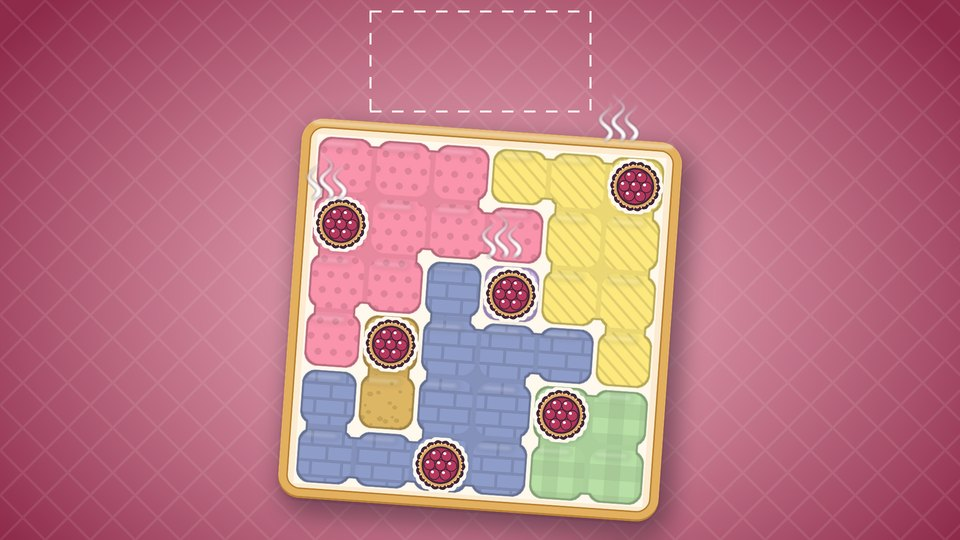
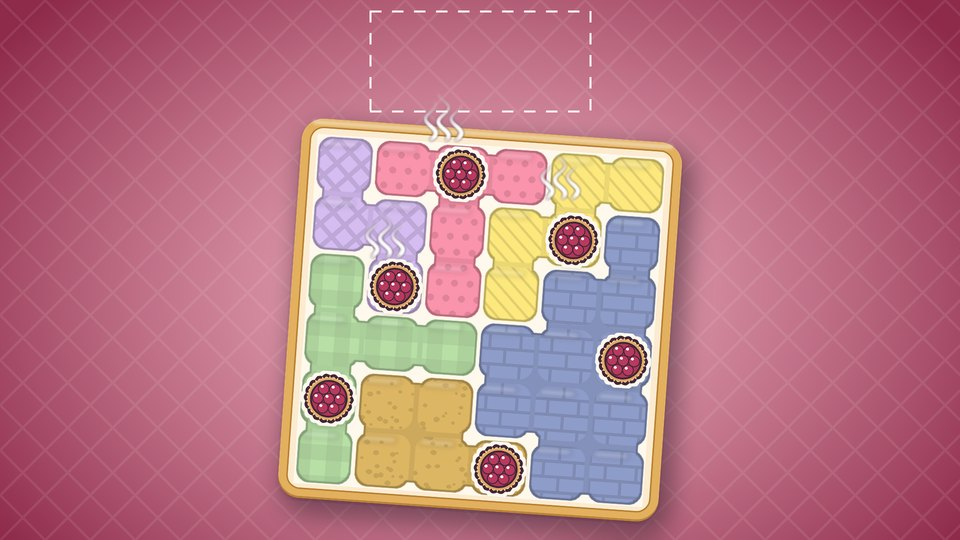
covers: boards from real validated levels (6-g3-0038 A2/A3 solved, 5-g2-0029 B2/B3), B3 recipe-book challenger + grid_test_v3b, re-run grid_test_v3; COVERS_PLAN test rules (like-for-like blocks, ~300-click minimum, >=10% lift to switch, Shahar OK via Portal Ops)

Changed region(s): [[0.3125, 0.2074, 0.7188, 0.9481], [0.625, 0.2074, 0.6875, 0.2667]]

diff --git a/art/tools/cover_concepts.py b/art/tools/cover_concepts.py
@@ -67,17 +67,30 @@ def deep_bg(W=1920,H=1080,centre=(960,560),c0=(246,201,211)):
     lat=Image.new("RGBA",(W,H),(0,0,0,0)); d=ImageDraw.Draw(lat)
     for k in range(-H,W,90): d.line([(k,0),(k+H,H)],fill=(255,248,236,22),width=6); d.line([(k+H,0),(k,H)],fill=(255,248,236,22),width=6)
     im.alpha_composite(lat); return im
-def board_big(n,seed,size,cake_scale=1.15):
-    reg,sol=gen_board(n,seed); b=render_board_b2(n,reg,{},size); cell=size/n
-    for (r,c) in sol[:n]:
+import json as _json
+def level(pid,perm):
+    """real level from game/levels (validated here: one cake per row/col/region, no 8-neighbour touching)"""
+    n=int(pid[0]); band=pid.split("-")[1][1]
+    d=_json.load(open(f"/workspace/tea-and-tarts/game/levels/pack_{n}_g{band}.json")); b=[x for x in d["boards"] if x["id"]==pid][0]
+    reg=np.array([[perm[ch] for ch in row] for row in b["regions"]]); sol=[(r,c) for r,c in enumerate(b["solution"])]
+    assert len({c for _,c in sol})==n and len({int(reg[r,c]) for r,c in sol})==n
+    assert all(not(abs(a[0]-q[0])<=1 and abs(a[1]-q[1])<=1) for i,a in enumerate(sol) for q in sol[i+1:])
+    return n,reg,sol
+LV6=level("6-g3-0038",{"a":0,"b":1,"c":3,"d":5,"e":2,"f":4})
+LV5=level("5-g2-0029",{"a":1,"b":0,"c":2,"d":4,"e":3})
+def board_big(lv,size,cake_scale=1.15,hide=(),molds=(),frame="tray_frame_solved"):
+    n,reg,sol=lv; b=render_board_b2(n,reg,{},size); cell=size/n
+    for (r,c) in molds:
+        ms=int(cell*0.7); m=L("board/mold@2x.png",ms); b.alpha_composite(m,(int(c*cell+cell/2-ms/2),int(r*cell+cell/2-ms/2)))
+    for (r,c) in [p for i,p in enumerate(sol) if i not in hide]:
         cs=int(cell*cake_scale); ck=L("board/cake_berry@2x.png",cs); b.alpha_composite(ck,(int(c*cell+cell/2-cs/2),int(r*cell+cell/2-cs/2+cell*0.02)))
-    fr=L("board/tray_frame_solved@2x.png"); pad=int(size*0.05); W=size+2*pad; out=Image.new("RGBA",(W,W),(0,0,0,0)); m=64
+    fr=L(f"board/{frame}@2x.png"); pad=int(size*0.05); W=size+2*pad; out=Image.new("RGBA",(W,W),(0,0,0,0)); m=64
     xs=[0,m,192-m,192]; xd=[0,m,W-m,W]
     for i in range(3):
         for j in range(3): out.alpha_composite(fr.crop((xs[i],xs[j],xs[i+1],xs[j+1])).resize((xd[i+1]-xd[i],xd[j+1]-xd[j])),(xd[i],xd[j]))
     out.alpha_composite(b,(pad,pad)); return out,sol,cell,pad
 def concept_A2():
-    im=deep_bg(); b,sol,cell,pad=board_big(6,7,600); bb=b.rotate(-4,resample=Image.BICUBIC,expand=True)   # ~680 px tall = 63% of 1080
+    im=deep_bg(); b,sol,cell,pad=board_big(LV6,600); bb=b.rotate(-4,resample=Image.BICUBIC,expand=True)   # ~680 px tall = 63% of 1080
     x0=960-bb.width//2; y0=575-bb.height//2+20; shadow(im,bb,(x0,y0),r=26,a=150,off=(14,22))
     for (r,c) in sol[:3]:
         st=L("board/steam_puff@2x.png",int(cell*1.2)); im.alpha_composite(st,(int(x0+pad+c*cell+cell*0.0),int(y0+pad+r*cell-cell*0.95)))
@@ -91,14 +104,14 @@ def concept_B2():
     for x in range(0,1920,44): cd.rectangle([x,0,x+22,300],fill=(184,223,166,150))
     for y in range(0,300,44): cd.rectangle([0,y,1920,y+22],fill=(184,223,166,120))
     im.alpha_composite(cloth,(0,820))
-    b,sol,cell,pad=board_big(5,3,560,1.12); bb=b.rotate(3,resample=Image.BICUBIC,expand=True)
+    b,sol,cell,pad=board_big(LV5,560,1.12); bb=b.rotate(3,resample=Image.BICUBIC,expand=True)
     x0=880-bb.width//2; y0=575-bb.height//2+20; shadow(im,bb,(x0,y0),r=26,a=150,off=(14,22))
     c=L("recipes/recipe_5@2x.png",(330,440)).rotate(-9,resample=Image.BICUBIC,expand=True); shadow(im,c,(1230,400),a=150)
     shadow(im,L("decor/decor_4_doily_teacups@2x.png",230),(330,800),a=140)
     d=ImageDraw.Draw(im); dashed(d,(620,40,1140,150),col=(255,248,236,200))
     return im.convert("RGB")
 def square_A2():   # re-stacked 1080x1080 (not a crop): nothing cut at the edges, corners left as plain background (Poki mask)
-    im=deep_bg(1080,1080,(540,560)); b,sol,cell,pad=board_big(6,7,620); bb=b.rotate(-4,resample=Image.BICUBIC,expand=True)
+    im=deep_bg(1080,1080,(540,560)); b,sol,cell,pad=board_big(LV6,620); bb=b.rotate(-4,resample=Image.BICUBIC,expand=True)
     x0=540-bb.width//2; y0=590-bb.height//2; shadow(im,bb,(x0,y0),r=26,a=150,off=(14,22))
     for (r,c) in sol[:3]:
         st=L("board/steam_puff@2x.png",int(cell*1.2)); im.alpha_composite(st,(int(x0+pad+c*cell),int(y0+pad+r*cell-cell*0.95)))
@@ -109,12 +122,12 @@ def square_B2():
     for x in range(0,1080,44): cd.rectangle([x,0,x+22,220],fill=(184,223,166,150))
     for y in range(0,220,44): cd.rectangle([0,y,1080,y+22],fill=(184,223,166,120))
     im.alpha_composite(cloth,(0,860))
-    b,sol,cell,pad=board_big(5,3,560,1.12); bb=b.rotate(3,resample=Image.BICUBIC,expand=True)
+    b,sol,cell,pad=board_big(LV5,560,1.12); bb=b.rotate(3,resample=Image.BICUBIC,expand=True)
     x0=470-bb.width//2; y0=590-bb.height//2; shadow(im,bb,(x0,y0),r=26,a=150,off=(14,22))
     c=L("recipes/recipe_5@2x.png",(270,360)).rotate(-9,resample=Image.BICUBIC,expand=True); shadow(im,c,(700,500),a=150)
     d=ImageDraw.Draw(im); dashed(d,(300,40,780,140),col=(255,248,236,200)); return im.convert("RGB")
 def _a3(W,H):   # launch cover v3: tray ~78% of height, no side props, darker vignette centre #E9A9BA
-    im=deep_bg(W,H,(W//2,H//2+40),c0=(0xE9,0xA9,0xBA)); b,sol,cell,pad=board_big(6,7,700); bb=b.rotate(-4,resample=Image.BICUBIC,expand=True)
+    im=deep_bg(W,H,(W//2,H//2+40),c0=(0xE9,0xA9,0xBA)); b,sol,cell,pad=board_big(LV6,700); bb=b.rotate(-4,resample=Image.BICUBIC,expand=True)
     x0=W//2-bb.width//2; y0=H-bb.height-28; shadow(im,bb,(x0,y0),r=26,a=160,off=(14,22))
     for (r,c) in sol[:3]:
         st=L("board/steam_puff@2x.png",int(cell*1.1)); im.alpha_composite(st,(int(x0+pad+c*cell+cell*0.05),int(y0+pad+r*cell-cell*0.9)))
@@ -122,8 +135,46 @@ def _a3(W,H):   # launch cover v3: tray ~78% of height, no side props, darker vi
     print("A3 tray height frac", round(bb.height/H,3)); return im.convert("RGB")
 def concept_A3(): return _a3(1920,1080)
 def square_A3(): return _a3(1080,1080)
-SQ={"A2":square_A2,"B2":square_B2,"A3":square_A3}
-for name,fn in (("A",concept_A),("B",concept_B),("A2",concept_A2),("B2",concept_B2),("A3",concept_A3)):
+def _book(W,H,bw,bh,cx,cy):
+    """open recipe book: two cream pages, spine, page edges, raspberry ribbon; returns RGBA layer + page boxes"""
+    lay=Image.new("RGBA",(W,H),(0,0,0,0)); d=ImageDraw.Draw(lay); x0,y0=cx-bw//2,cy-bh//2
+    d.rounded_rectangle([x0-14,y0+10,x0+bw+14,y0+bh+22],radius=34,fill=(142,42,74,255),outline=(67,40,58,255),width=6)   # cover board
+    for k in (3,2,1):
+        d.rounded_rectangle([x0-k*4,y0+k*5,x0+bw//2,y0+bh+k*4],radius=24,fill=(238,226,206,255),outline=(67,40,58,255),width=3)
+        d.rounded_rectangle([x0+bw//2,y0+k*5,x0+bw+k*4,y0+bh+k*4],radius=24,fill=(238,226,206,255),outline=(67,40,58,255),width=3)
+    d.rounded_rectangle([x0,y0,x0+bw//2+6,y0+bh],radius=24,fill=(255,248,236,255),outline=(67,40,58,255),width=5)
+    d.rounded_rectangle([x0+bw//2-6,y0,x0+bw,y0+bh],radius=24,fill=(255,248,236,255),outline=(67,40,58,255),width=5)
+    g=Image.new("L",(W,H),0); ImageDraw.Draw(g).rectangle([cx-30,y0+6,cx+30,y0+bh-6],fill=90); lay.alpha_composite(Image.composite(Image.new("RGBA",(W,H),(67,40,58,255)),Image.new("RGBA",(W,H),(0,0,0,0)),g.filter(ImageFilter.GaussianBlur(18))))
+    d=ImageDraw.Draw(lay); d.line([(cx,y0+4),(cx,y0+bh-4)],fill=(67,40,58,255),width=5)
+    d.polygon([(cx+70,y0-6),(cx+110,y0-6),(cx+110,y0+bh+90),(cx+90,y0+bh+70),(cx+70,y0+bh+90)],fill=(176,54,90,255),outline=(67,40,58,255))
+    d.line([(cx+70,y0-6),(cx+70,y0+bh+90),(cx+90,y0+bh+70),(cx+110,y0+bh+90),(cx+110,y0-6)],fill=(67,40,58,255),width=4,joint="curve")
+    return lay,(x0,y0,cx,y0+bh),(cx,y0,x0+bw,y0+bh)
+def _b3(W,H,square=False):
+    im=deep_bg(W,H,(W//2,H//2+30),c0=(0xE9,0xA9,0xBA))
+    bh=int(H*0.74); bw=int(min(W*0.86, bh*(1.62 if not square else 1.3))); cx,cy=W//2,H//2+50
+    lay,(lx0,ly0,lx1,ly1),(rx0,ry0,rx1,ry1)=_book(W,H,bw,bh,cx,cy)
+    sh=Image.new("RGBA",(W,H),(0,0,0,0)); sh.putalpha(lay.split()[3].point(lambda v:int(v*0.55))); im.alpha_composite(Image.new("RGBA",(W,H),(40,10,25,0)))
+    shl=Image.new("RGBA",(W,H),(67,40,58,0)); shl.putalpha(lay.split()[3].point(lambda v:int(v*0.6)))
+    big=Image.new("RGBA",(W,H),(0,0,0,0)); big.alpha_composite(shl,(0,0)); big=big.transform(big.size,Image.AFFINE,(1,0,-14,0,1,-24)).filter(ImageFilter.GaussianBlur(24)); im.alpha_composite(big)
+    im.alpha_composite(lay)
+    # left page: board nearly solved (one cake left; its cell holds an empty mold), regular tray (in play)
+    n,reg,sol=LV5; pw=lx1-lx0; ph_=ly1-ly0; bs=int(min(pw,ph_)*0.80)
+    hide=(3,); b,_,cell,pad=board_big(LV5,bs,1.12,hide=hide,molds=[sol[3]],frame="tray_frame")
+    bx=lx0+(pw-b.width)//2; by=ly0+(ph_-b.height)//2; shadow(im,b,(bx,by),r=14,a=110,off=(6,10))
+    # right page: the collected recipe card (ch5 Cherry Bakewell), big, slight tilt + a pinned decor sticker
+    cw=int((ry1-ry0)*0.78*0.75); chh=int((ry1-ry0)*0.78)
+    c=L("recipes/recipe_5@2x.png",(cw,chh)).rotate(-5,resample=Image.BICUBIC,expand=True)
+    shadow(im,c,(rx0+(rx1-rx0-c.width)//2+10,ry0+(ry1-ry0-c.height)//2),r=14,a=120,off=(6,10))
+    if not square:
+        t=L("decor/decor_1_teapot@2x.png",int(chh*0.42)); shadow(im,t,(rx1-int(chh*0.42)+20,ry1-int(chh*0.42)+10),r=10,a=110,off=(4,6))
+    d=ImageDraw.Draw(im); tb=440; dashed(d,(W//2-tb//2,20,W//2+tb//2,ly0-40),col=(255,248,236,200))
+    print("B3 book height frac",round(bh/H,3)); return im.convert("RGB")
+def concept_B3(): return _b3(1920,1080)
+def square_B3(): return _b3(1080,1080,True)
+SQ={"A2":square_A2,"B2":square_B2,"A3":square_A3,"B3":square_B3}
+import sys as _sys
+_ONLY=_sys.argv[1:] or ["A","B","A2","B2","A3","B3"]
+for name,fn in [x for x in (("A",concept_A),("B",concept_B),("A2",concept_A2),("B2",concept_B2),("A3",concept_A3),("B3",concept_B3)) if x[0] in _ONLY]:
     im=fn(); im.resize((960,540),Image.LANCZOS).save(f"{OUT}/concept_{name}_960x540.jpg",quality=86)
     sq=(SQ[name]() if name in SQ else im.crop((420,0,1500,1080))).resize((540,540),Image.LANCZOS); sq.save(f"{OUT}/concept_{name}_square_540.jpg",quality=86)
     im.save(f"/tmp/tt_cover_{name}.jpg",quality=85)

diff --git a/art/tools/grid_test.py b/art/tools/grid_test.py
@@ -53,7 +53,7 @@ kinds=["sudoku","cupcake","blocks","pancake","word","jigsaw","cookie","bubble","
 cells=[]; k=0
 import sys
 MODE=sys.argv[1] if len(sys.argv)>1 else "v1"; V2=MODE!="v1"
-POS={"v1":{3:"A",13:"B"},"v2":{1:"A2",10:"B2",12:"A",16:"B"},"v3":{2:"A3",9:"A2",16:"B2"}}[MODE]
+POS={"v1":{3:"A",13:"B"},"v2":{1:"A2",10:"B2",12:"A",16:"B"},"v3":{2:"A3",9:"A2",16:"B2"},"v3b":{2:"A3",15:"B3"}}[MODE]
 for i in range(18):
     if i in POS: cells.append((POS[i],ours(POS[i])))
     else: cells.append((kinds[k],ph(kinds[k],i))); k+=1
@@ -68,9 +68,10 @@ from ttdraw import font
 sheet.paste(grid,(0,30)); sheet.paste(glance,(0,GH+60))
 cap=("Actual size (230x130 tiles on CG-style dark grid). Ours: row 1 col 4 = A 'Golden tray'; row 3 col 2 = B 'Recipe book table'. Others = self-drawn placeholders." if not V2 else
      ("v2 test, actual size (230x130). Ours: row1 col2 = A2, row2 col5 = B2 (v2); row3 col1 = A, row3 col5 = B (v1, for comparison). Others = self-drawn placeholders." if MODE=="v2" else
-      "v3 test, actual size (230x130). Ours: row1 col3 = A3 (launch cover v3); row2 col4 = A2; row3 col5 = B2. Others = self-drawn placeholders."))
+      ("v3 test, actual size (230x130). Ours: row1 col3 = A3 (launch cover v3); row2 col4 = A2; row3 col5 = B2. Others = self-drawn placeholders." if MODE=="v3" else
+       "v3b test, actual size (230x130). Ours: row1 col3 = A3 (launch); row3 col4 = B3 (challenger, recipe book). Others = self-drawn placeholders.")))
 d.text((8,6),cap,fill="#43283A",font=font("ui",15,500))
 d.text((8,GH+36),"Glance: downscaled to 1/4 + blurred (peripheral read while scrolling)",fill="#43283A",font=font("ui",15,500))
-fn={"v1":"grid_test.png","v2":"grid_test_v2.png","v3":"grid_test_v3.png"}[MODE]
+fn={"v1":"grid_test.png","v2":"grid_test_v2.png","v3":"grid_test_v3.png","v3b":"grid_test_v3b.png"}[MODE]
 sheet.save(f"{OUT}/{fn}",optimize=True); sheet.save(f"/tmp/tt_{fn}")
 print(sheet.size)

diff --git a/art/COVERS_PLAN.md b/art/COVERS_PLAN.md
@@ -38,7 +38,10 @@ A board in progress (5×5) on a gingham tea table, three fanned recipe cards (le
 - **Launch with one cover (A).** Wait about the first 7 days of CG Basic Launch for traffic to settle before testing.
 - **Then alternate A / B in 3–4 day blocks, matched on weekdays** (Mon–Thu and Fri–Sun blocks; each arm gets the same number of each, see the schedule below). **Change nothing else in the build or listing during the test:** no build updates, description, tags or title. Each switch swaps only the **3 covers + 2 previews** of that arm.
 - **Previews (Growth ruling, 2026-10-25):** each preview set (landscape 1920×1080, portrait 1080×1620) exists in an **A and a B version that differ ONLY in the opening static-cover frame**. The gameplay footage is byte-identical: same capture, same cut, same length; only the first ~0.5 s cover hold and the cover-to-gameplay transition differ. During B blocks, B's covers **and** B's previews go up, so every preview opens on the cover being shown (CG rule).
-- **Deciding metric: engaged plays per impression** = cover CTR × the share of clickers who play past ~1 min (from `gameplayStart` + the analytics session timer). **Guardrail:** average playtime must not drop.
+- **Deciding metric: engaged plays per impression** = cover CTR × the share of clickers who play past ~1 min (from `gameplayStart` + the analytics session timer). **Guardrail:** average playtime.
+- **Like-for-like comparison:** each B block is judged against the **nearest A block of the same type** (Mon–Thu vs Mon–Thu, Fri–Sun vs Fri–Sun). The schedule gives **each cover both block types** (2 Mon–Thu + 2 Fri–Sun each).
+- **Minimum sample:** a block **counts only with ≥ about 300 cover clicks**. That is Growth's estimate, not a CG rule. If a block is too thin, **extend it** (same weekdays the following week) rather than judging it. No stop rule fires on a thin block.
+- **Final decision:** **B wins only with a clear lift of ≥10% in engaged plays per impression across all its counted blocks, and no playtime breach.** Otherwise **keep A**.
 - **Approvals:** asking CrazyGames for a split test, or **any listing change**, needs **Shahar's OK and goes through CoS**. **Every block switch is a CG listing change** and goes through Portal Ops. To avoid asking 7 times, Shahar approves the **whole schedule below once, up front**; Portal Ops then executes each switch on its date. Any deviation (a date slip, an extra block, an early stop) goes back to Shahar. TT Art prepares the files only and never uploads.
 - **Poki** runs its own thumbnail A/B tests during soft release. Hand Poki both A and B (text-free 1080²) when soft release starts.
 
@@ -111,10 +114,29 @@ Totals: each arm gets **2 Mon–Thu + 2 Fri–Sun blocks** (A: blocks 1, 3, 5, 7
 - `cg-preview-1920x1080-{A|B}_<sha>.mp4`
 - `cg-preview-1080x1620-{A|B}_<sha>.mp4`
 
-Arm A = concept **A3**. Arm B = the challenger rebuilt on A3's recipe (**B3**: board ~76%, one small card, darker centre), ready before block 2.
-**Stop rules (proposed by TT Art; Growth to confirm the thresholds before the schedule goes to Shahar):**
+Arm A = concept **A3**. Arm B = concept **B3** (the recipe-book challenger, below).
+**Stop rules (Growth-confirmed thresholds; they apply only to blocks that meet the ≥ about 300-click minimum):**
 - Stop early and revert to A if engaged plays per impression drop by more than 30% on B for a full block, or if average playtime (the guardrail) drops by more than 15%.
-- Otherwise run to the end. Growth reads the results from the CG developer dashboard plus our analytics hooks.
+- Otherwise run to the end and decide by the ≥10% rule above. Growth reads the results from the CG developer dashboard plus our analytics hooks.
+- **Approval:** the whole schedule, including the stop rules and any extensions of thin blocks, needs **Shahar's OK via Portal Ops (CoS) before the first swap**.
+
+### Board validity and B3 (2026-10-25, about 10:50)
+- **Validity check:** the boards in A2/B2/A3 were procedurally generated (`ttdraw.gen_board`). They were **valid solved states**: one cake per row, column and region, and no two cakes touching, diagonals included. But they were **not real levels**.
+  - All v2/v3 covers are now rendered from **real shipped levels**: A2/A3 use `6-g3-0038` (`game/levels/pack_6_g3.json`, shown solved); B2/B3 use `5-g2-0029` (`pack_5_g2.json`; B3 shows it nearly solved, with one cake left and an empty mold in its cell).
+  - `cover_concepts.py` asserts the rules on load.
+  - The v1 files (`concept_A_*`, `concept_B_*`) are unchanged history (valid generated boards). `grid_test_v3.png` was re-run with the real-level covers.
+- **B3 "Recipe book"** (`concept_B3_960x540.jpg` / `_square_540.jpg`):
+  - An open recipe book fills 74% of the frame height on the same dark-edged raspberry vignette as A3 (centre #E9A9BA).
+  - The left page has the 5×5 board in play. The right page has the collected Cherry Bakewell card plus a teapot sticker (landscape only).
+  - A raspberry ribbon bookmark, no text, and the same compact dashed title area.
+  - The square is a re-stacked composition, not a crop.
+  - It is the collection concept, not a copy of A3's single tray.
+- **`grid_test_v3b.png` (A3 vs B3) verdict:**
+  - B3 now matches A3's contrast: a big cream book shape on raspberry, which holds up on the dark grid as well as A3's tray, and reads at glance size as "open book with a coloured board and a card". It is in the same tier as A3 and the single-shape bold placeholders (sudoku, donut), and still behind the saturated bubbles and blocks.
+  - A3 reads as "puzzle" faster, because its board is about 76% of the tile versus about 45% for B3's.
+  - B3 sells the cozy collection better.
+
+  It is a fair challenger, which is what the test needs.
 
 ## 3. Week-1 schedule (2026-10-25 → 10-31, Asia/Jerusalem)
 | Day | Work | Owner | Needs |
